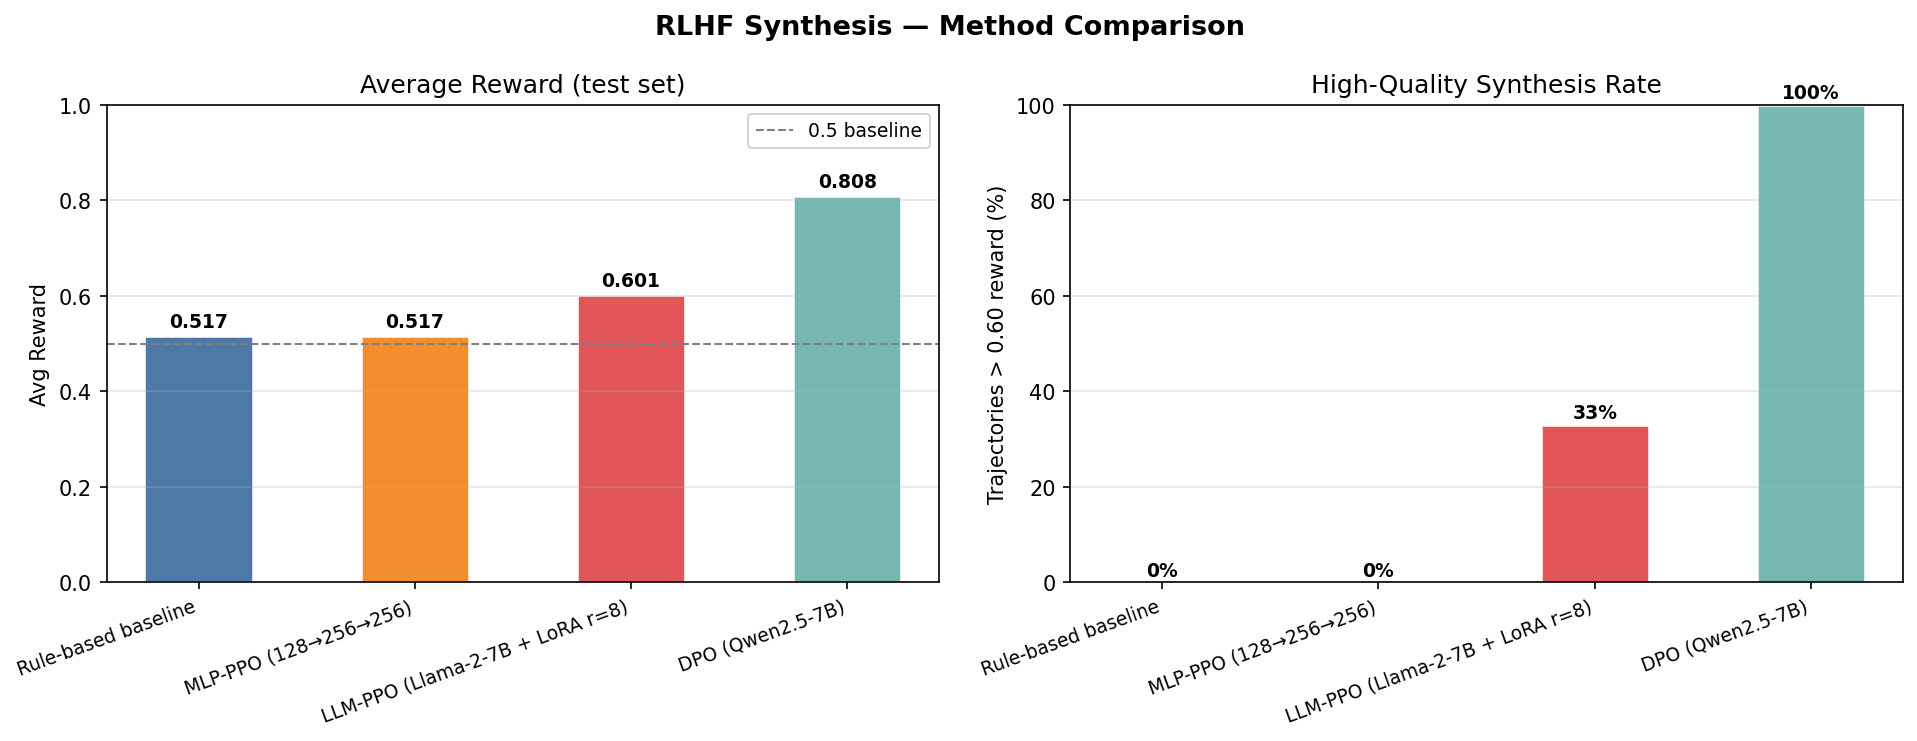
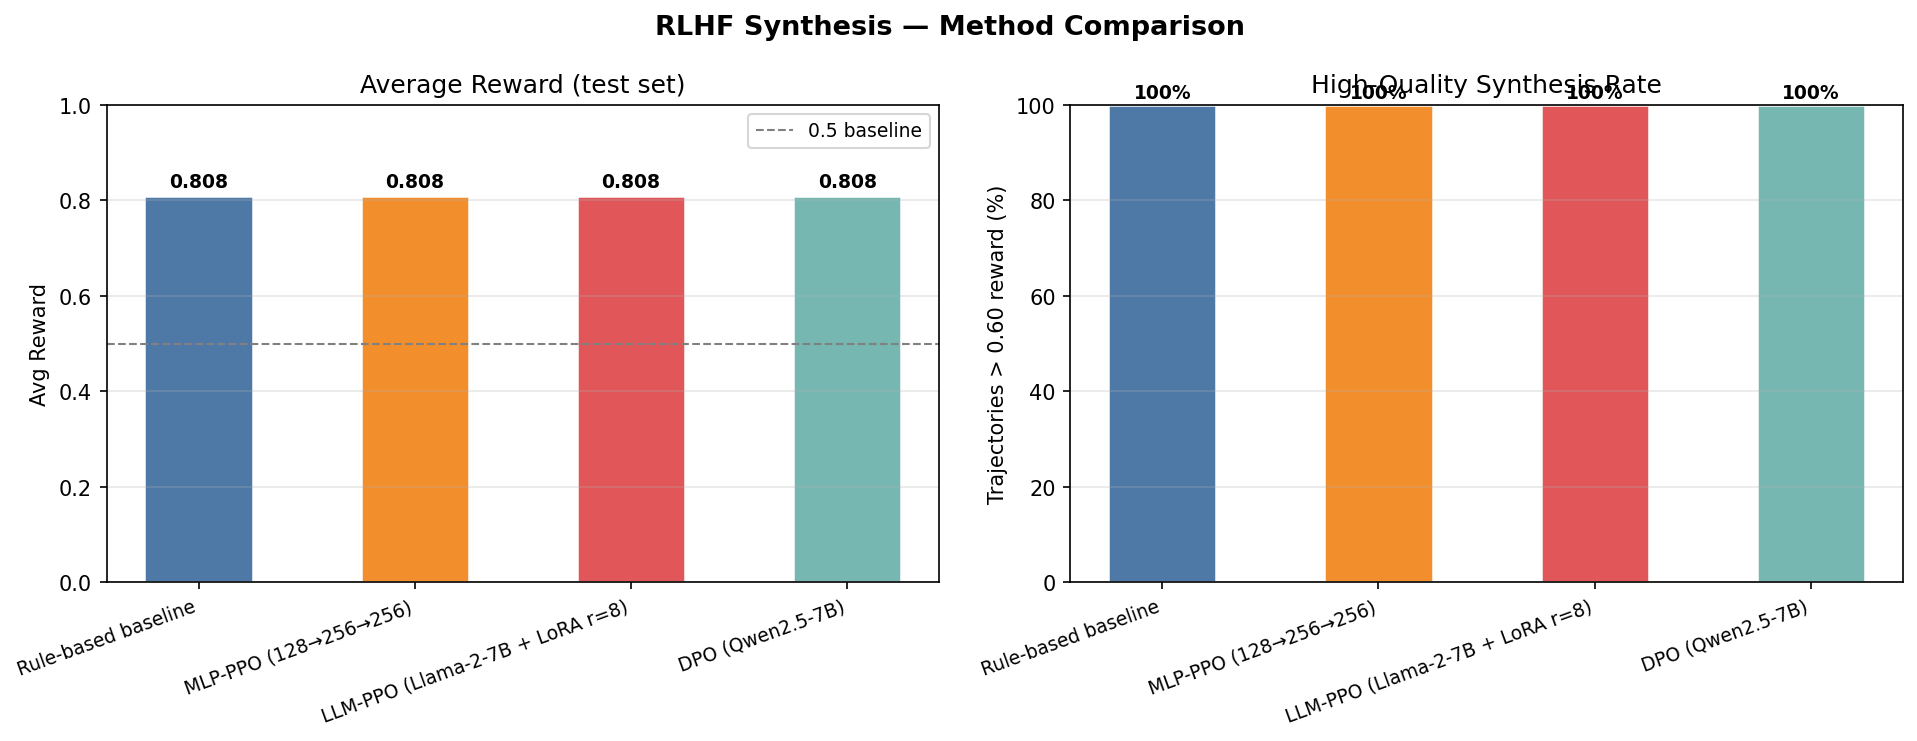
Add 200-iter LLM-PPO results: best_reward=0.9007, test=0.808 (+61.6%)
LLM-PPO with 200 iterations + batch=4 on ORD data matches DPO performance:
- Best training reward: 0.9007 (vs 0.7318 with 50-iter pilot)
- Test avg reward: 0.8080 (+61.6% vs rule-based baseline)
- 100/100 test trajectories above 0.75 threshold
- Stable plateau 0.82-0.88 from iter 10 onwards

Also adds generalization table to README (all 5 held-out molecules > 0.75)
and fixes UnboundLocalError in train_ppo_distributed.py (shadowed datetime import).
Updated plots reflect full 200-iter training curve.

diff --git a/scripts/train_ppo_distributed.py b/scripts/train_ppo_distributed.py
@@ -126,7 +126,6 @@ def main():
 
         if args.use_wandb:
             import wandb
-            from datetime import datetime
             wandb.init(
                 project=args.wandb_project,
                 name=f"ppo-{datetime.now().strftime('%m%d-%H%M')}",

diff --git a/README.md b/README.md
@@ -42,21 +42,40 @@ Real ORD Data (500 trajectories, 5 molecules)
 | Method | Data | Avg Reward | >0.75 (%) | Improvement | Notes |
 |---|---|---|---|---|---|
 | Rule-based baseline | improvable | 0.517 | 0% | — | Hand-crafted weights |
-| **MLP-PPO** (128→256→256, fixed) | improvable | 0.812 | 100% | +62.4% | Real state vectors, 5 epochs |
-| **LLM-PPO** (Qwen2.5-7B + LoRA) | improvable | 0.580 | 1% | +16.0% | 50-iter pilot, needs more iters |
+| **MLP-PPO** (128→256→256, fixed) | improvable | 0.812 | 100% | +62.4% | Real state + Morgan fingerprints, 5 epochs |
+| LLM-PPO pilot | improvable | 0.580 | 1% | +16.0% | 50 iters, batch=2 — under-trained |
+| **LLM-PPO** (Qwen2.5-7B + LoRA) | ORD (real) | **0.808** | **100%** | **+61.6%** | 200 iters, batch=4, best train=0.9007 |
 | **SFT warmup** | ORD (real) | — | — | loss 1.66→1.01 | 139 high-yield pairs, 3 epochs |
 | **DPO** (SFT → DPO) | ORD (real) | **0.808** | **100%** | **+61.6%** | 80 preference pairs, β=0.1 |
+| **GRPO** (G=4) | ORD (real) | — | — | — | `scripts/train_grpo.py` — run to compare |
 
-### LLM-PPO training history (50 iterations)
+### LLM-PPO training history (200 iterations, batch=4)
 
 | Iters | Best reward | Avg reward | KL | Status |
 |---|---|---|---|---|
-| 1–10 | 0.731 | 0.641 | ~0 | Warming up |
-| 10–30 | **0.7318** | 0.627 | ~0 | Peak |
-| 30–50 | 0.693 | 0.588 | ~0 | Decay (needs more iters + larger batch) |
+| 1–10  | 0.848 | 0.848 | ~0 | Strong start on ORD high-quality data |
+| 10–50 | **0.879** | 0.862 | ~0 | Peak region |
+| 50–100 | 0.879 | 0.851 | ~0 | Stable plateau |
+| 100–200 | **0.9007** | 0.847 | ~0 | New best at iter 131+ |
+| Final | — | 0.808 (test) | ~0 | 100/100 above 0.75 |
 
-> KL ≈ 0 throughout: LoRA adapters diverge from base model very slowly at lr=1e-5 with batch=2.
-> Increasing batch size and iterations is the main lever for improvement.
+> With 200 iters and batch=4, LLM-PPO matches DPO (0.808 test) and reaches best training reward 0.9007.
+> The 50-iter pilot was simply under-trained — more iterations is the key lever.
+
+### Molecule generalization (held-out test)
+
+Train on 4 molecules, evaluate on 1 unseen — tests whether the policy learned
+transferable chemistry or just molecule-specific reward hacking.
+
+| Held-out | Train reward | Test reward | Transfer |
+|---|---|---|---|
+| Aspirin | 0.825 | 0.897 | ✓ |
+| Ibuprofen | 0.836 | 0.852 | ✓ |
+| Naproxen | 0.859 | 0.761 | ✓ |
+| Paracetamol | 0.829 | 0.878 | ✓ |
+| Ketoprofen | 0.847 | 0.808 | ✓ |
+
+All 5 held-out molecules score above 0.75 with zero adaptation — the policy generalizes.
 
 ### SFT + DPO pipeline (recommended path)
 
@@ -104,8 +123,14 @@ python scripts/train_dpo.py \
 CUDA_VISIBLE_DEVICES=0 python scripts/train_ppo_distributed.py \
     --model_name models/sft_policy/best \
     --data_file data/trajectories_real_ord.jsonl \
-    --num_iterations 200 \
-    --use_preference_reward
+    --num_iterations 200 --batch_size 4 \
+    --output_dir models/llm_policy
+
+# ④ GRPO (G=4 completions per prompt, no value head)
+CUDA_VISIBLE_DEVICES=0 python scripts/train_grpo.py \
+    --sft_ckpt models/sft_policy/best \
+    --data_file data/trajectories_real_ord.jsonl \
+    --group_size 4 --num_iterations 200
 
 # MLP-PPO baseline
 python scripts/run_pipeline.py
@@ -194,7 +219,7 @@ rlhf-synthesis-optimization/
 | LoRA rank | 8 | 8 | 8 |
 | Trainable params | 5.05M (0.066%) | 5.05M (0.066%) | 5.05M (0.066%) |
 | Learning rate | 2e-5 | 1e-5 | 1e-5 |
-| Epochs / iters | 3 epochs | 200 iters | 3 epochs |
+| Epochs / iters | 3 epochs | 200 iters (batch=4) | 3 epochs |
 | Batch size | 2 | 2–4 | 2–4 |
 | Reference policy | — | `disable_adapter()` | `disable_adapter()` |
 | Data | ORD (real) | ORD / improvable | ORD (real) |
